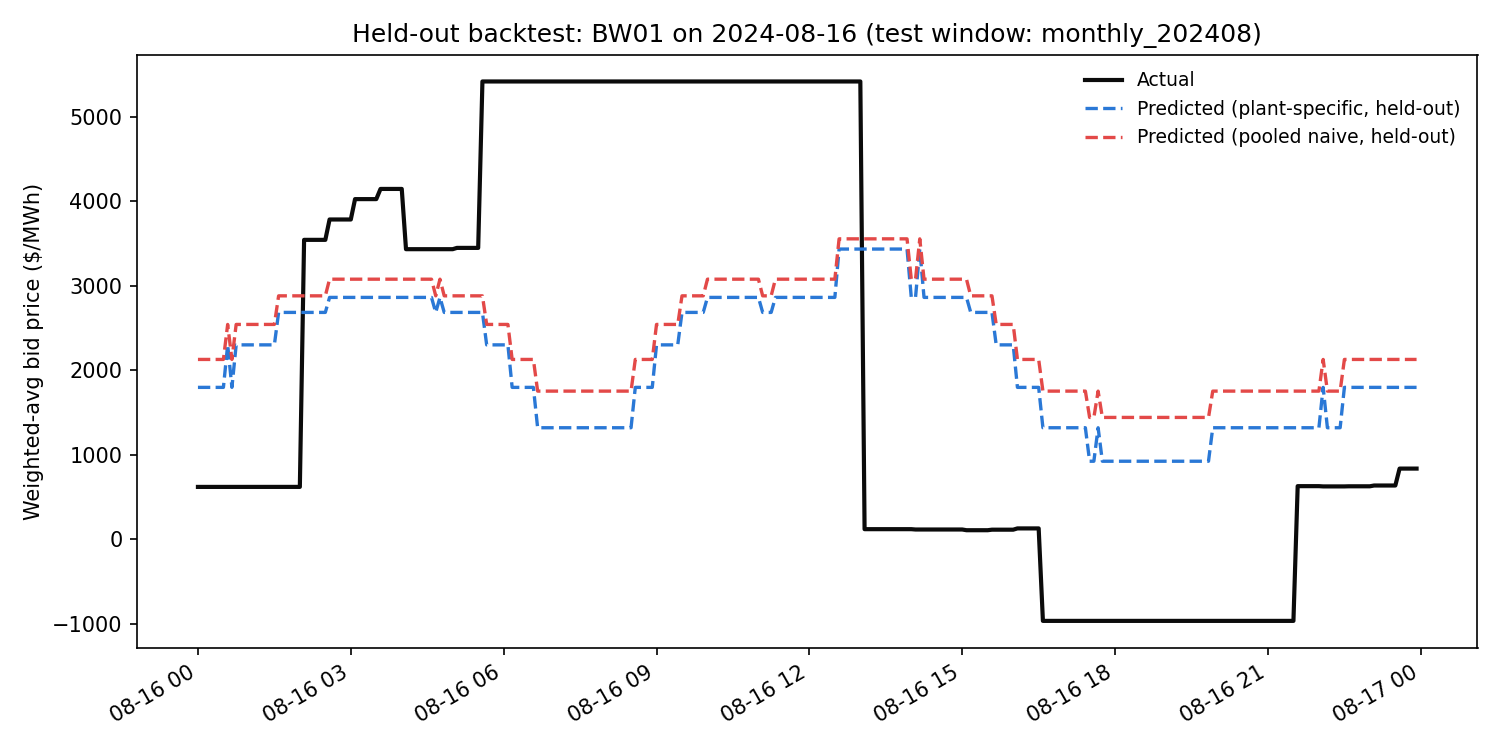
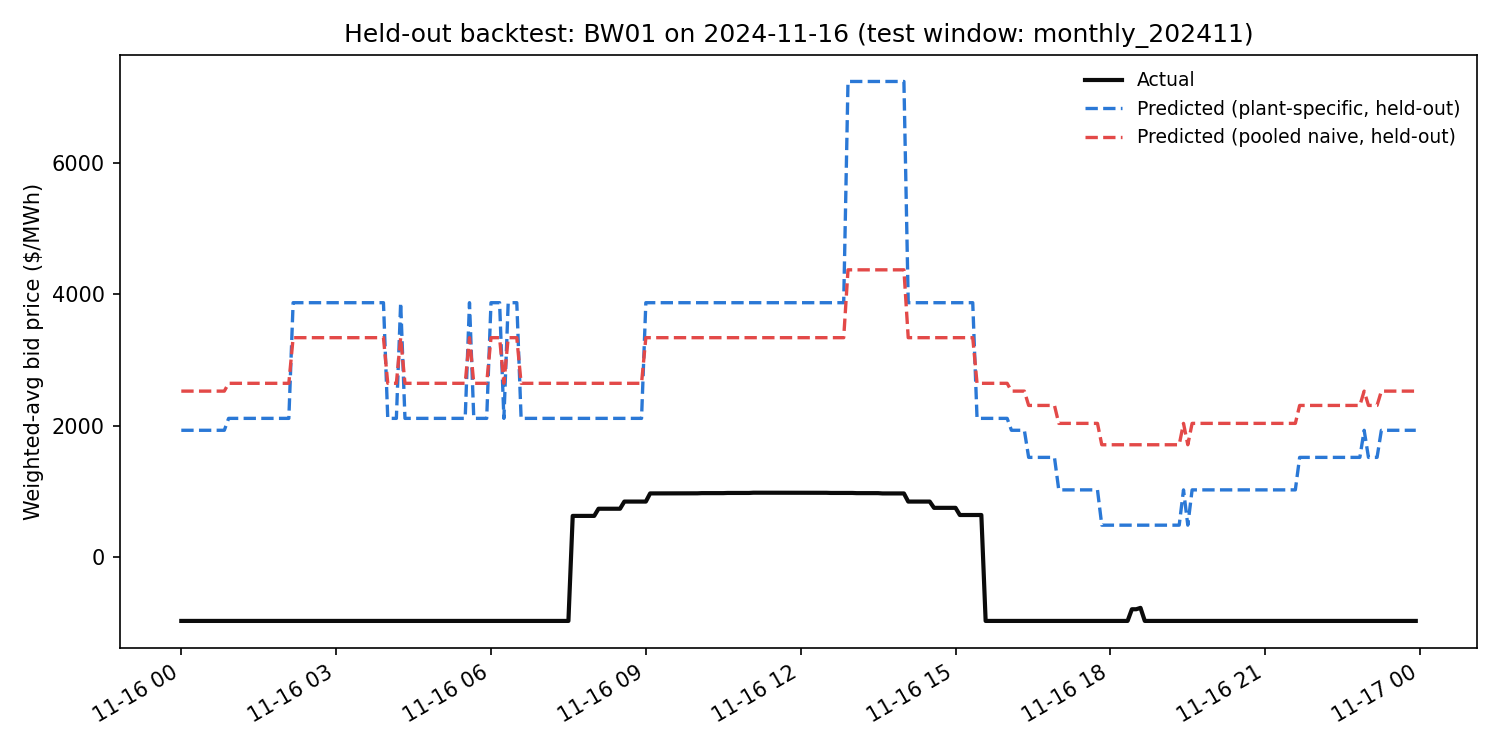
change backtesting

diff --git a/backtest_holdout.py b/backtest_holdout.py
@@ -42,6 +42,7 @@ DUIDS = ["BW01", "BW02", "ER01", "ER02"]
 COLS = ["DUID", "INTERVAL_DATETIME", "TOTALDEMAND", "RESERVE_MARGIN_MW", "WEIGHTED_AVG_PRICE"]
 N_BINS = 8  # ~4000 training rows per unit -> ~500 points per bin, stable without being too coarse
 MIN_ROWS_PER_FOLD = 50  # skip a fold if a DUID has fewer rows than this in train or test
+MIN_TRAIN_WINDOWS = 3  # need at least this many earlier months before the first test fold
 
 
 def load_windows():
@@ -128,24 +129,32 @@ def r2_vs_baseline(actual, pred, baseline_pred):
 
 
 def run_backtest():
-    """Runs the full leave-one-window-out cross-validation: each window is held
-    out as the test set once, with the rest used for training.
+    """Runs a walk-forward backtest: windows are sorted chronologically, and each
+    test month is only ever predicted from months strictly before it.
+
+    An earlier version trained on "all other windows" regardless of order, which
+    let later months leak into predictions for earlier ones, an information
+    leak a genuine forecasting use case would never have. Bidding strategy is
+    also not stationary (see the Eraring retirement-negotiation timeline), so
+    predicting the past from the future would flatter the result.
 
     Each fold compares three predictors: plant-specific, pooled naive, and a
-    constant baseline (the training-period average), scored on how well they
-    predict the held-out window.
+    constant baseline (the average of everything trained on so far), scored on
+    how well they predict the held-out month.
 
     Returns:
         results: one row per (test window, DUID) fold, as a DataFrame.
         example_fold: BW01's data from one fold, kept for plotting predicted vs. actual.
     """
     data = load_windows()
-    all_labels = list(data.keys())
+    all_labels = sorted(data.keys())  # "monthly_YYYYMM" sorts chronologically as strings
     rows = []
     example_fold = None  # keep one fold's detail for the example chart
+    last_actual_corr = {}  # per-DUID, the previous month's actual correlation, for the persistence baseline
 
-    for test_label in all_labels:
-        train_labels = [l for l in all_labels if l != test_label]
+    for i in range(MIN_TRAIN_WINDOWS, len(all_labels)):
+        test_label = all_labels[i]
+        train_labels = all_labels[:i]  # only months strictly before the test month
         train_df = pd.concat([data[l] for l in train_labels], ignore_index=True)
         test_df = data[test_label]
 
@@ -181,8 +190,20 @@ def run_backtest():
             train_corr = np.corrcoef(train_sub["TOTALDEMAND"], train_sub["WEIGHTED_AVG_PRICE"])[0, 1]
             train_pool_corr = np.corrcoef(train_df["TOTALDEMAND"], train_df["WEIGHTED_AVG_PRICE"])[0, 1]
             test_corr = np.corrcoef(demand, actual)[0, 1]
-            plant_specific_sign_match = np.sign(train_corr) == np.sign(test_corr)
-            pooled_sign_match = np.sign(train_pool_corr) == np.sign(test_corr)
+            # bool(...) matters: np.sign(...) == np.sign(...) is a numpy.bool_,
+            # and storing numpy.bool_ in an object-dtype column makes
+            # pandas.Series.mean() silently wrong (verified: with pandas 2.3.3 /
+            # numpy 2.2.6, any True in such a column makes .mean() return 1/n
+            # regardless of the real proportion). Plain Python bool avoids it.
+            plant_specific_sign_match = bool(np.sign(train_corr) == np.sign(test_corr))
+            pooled_sign_match = bool(np.sign(train_pool_corr) == np.sign(test_corr))
+
+            # Persistence baseline: predict this month's sign is whatever last
+            # month's actual sign was, no model at all. Context for how much the
+            # model's direction match rate is actually buying you.
+            prev_corr = last_actual_corr.get(duid)
+            persistence_sign_match = bool(np.sign(prev_corr) == np.sign(test_corr)) if prev_corr is not None else np.nan
+            last_actual_corr[duid] = test_corr
 
             rows.append({
                 "test_window": test_label,
@@ -192,6 +213,7 @@ def run_backtest():
                 "test_actual_demand_price_corr": test_corr,
                 "plant_specific_sign_matches_test": plant_specific_sign_match,
                 "pooled_sign_matches_test": pooled_sign_match,
+                "persistence_sign_matches_test": persistence_sign_match,
                 "mae_constant": mae(actual, pred_const),
                 "mae_pooled_naive": mae(actual, pred_b),
                 "mae_plant_specific": mae(actual, pred_a),
@@ -245,8 +267,12 @@ def summarize(results):
     ]].mean().round(2)
     print(overall.to_string())
     print(f"\nDirection match (training-set demand-price correlation sign vs. test-window actual sign):")
-    print(f"  plant-specific model: {results['plant_specific_sign_matches_test'].mean()*100:.0f}% of folds")
-    print(f"  pooled naive model:   {results['pooled_sign_matches_test'].mean()*100:.0f}% of folds")
+    print(f"  plant-specific model:  {results['plant_specific_sign_matches_test'].mean()*100:.0f}% of folds")
+    print(f"  pooled naive model:    {results['pooled_sign_matches_test'].mean()*100:.0f}% of folds")
+    persistence = results["persistence_sign_matches_test"].dropna()
+    print(f"  persistence baseline:  {persistence.mean()*100:.0f}% of folds (predict this month = last month's actual sign, no model at all, n={len(persistence)})")
+    always_negative = (results["test_actual_demand_price_corr"] < 0).mean()
+    print(f"  'always guess negative' baseline: {always_negative*100:.0f}% of folds (context: how skewed the sign distribution already is)")
 
     return agg
 

diff --git a/README.md b/README.md
@@ -43,13 +43,13 @@ The naive hypothesis, price rises as margin tightens, failed in all three:
 ![Exhibit 3: correlation by plant](exhibit3_correlation_by_plant.png)
 
 - **Bayswater prices against demand, consistently.** Correlation between demand and its weighted-average bid price runs -0.5 to -0.8 in every window, calm or stressed.
-- **Eraring's pattern is weaker and unstable.** Near zero in the calm week, only turning meaningfully negative under stress. Same fuel, same region, different bidding logic, plausibly tied to its retirement timeline.
+- **Eraring's pattern is weaker and unstable.** Near zero in the calm week, only turning meaningfully negative under stress. Same fuel, same region, different bidding logic. Eraring's retirement date has moved twice during the analysis period; see the note in Phase 2 for a partially tested link.
 
 One day makes the mechanism concrete. On November 26, 2025:
 
 ![Exhibit 2: duck curve day](exhibit2_duckcurve_day.png)
 
-BW01 bid up to a blended ~$9,400/MWh at 9-11am, when demand was only 7,000-9,400 MW. It bid down to the price floor during the day's actual peak of 10,760 MW at 5-8pm. The unit prices low when it wants to guarantee dispatch, and prices its optional capacity high when running isn't necessary. That's self-preservation bidding, not a scarcity markup, and a replacement model needs to capture it per plant, not per fuel type.
+BW01's volume-weighted bid price (the average across all 10 price bands, weighted by offered volume, not the marginal band or the dispatch price) reached ~$9,400/MWh at 9-11am, when demand was only 7,000-9,400 MW: half its 660 MW capacity sat at the price cap, half near the floor. At the day's actual peak of 10,760 MW at 5-8pm, all 660 MW sat at the price floor. The unit prices low when it wants to guarantee dispatch, and prices its optional capacity high when running isn't necessary. That's self-preservation bidding, not a scarcity markup, and a replacement model needs to capture it per plant, not per fuel type. (Across the full month this specific two-band split is the extreme case, not the typical one; see the Appendix for the exact statistic used.)
 
 **Concretely:**
 1. Replace the single "scarcity alpha" parameter with plant-specific curves indexed to demand, estimated from each unit's bid history.
@@ -70,15 +70,15 @@ A demand-indexed, plant-specific model should improve forecast accuracy exactly 
 
 The plan was to validate against a real AEMO Market Price Cap or Cumulative Price Threshold event. NSW1 has triggered Administered Pricing only once, May 8 to 15, 2024, and that window sits inside the exact gap where AEMO's bid archive has no data. No bid data exists to test against it.
 
-Instead I ran a leave-one-month-out backtest on 23 independent real months (Aug 2024 to Jun 2026). Each month is held out in turn while the rest train the model. Two models, both fit on demand-binned average bid price, are compared: one curve per unit versus one curve pooled across all four units.
+Instead I ran a walk-forward backtest on real months from Aug 2024 to Jun 2026. Windows are sorted chronologically and each test month is predicted only from months strictly before it, never from the future. Two models, both fit on demand-binned average bid price, are compared: one curve per unit versus one curve pooled across all four units. An earlier version of this backtest trained on all other months regardless of order, letting later months leak into earlier predictions; that is fixed now.
 
-Results across 92 held-out unit-months:
-- Direction (price rising or falling with demand) matched the held-out month 93% of the time.
-- The pooled curve did worse than just predicting the training-period average price (R² -0.12).
-- The plant-specific curve beat that baseline (R² 0.12) and cut prediction error 11% versus the pooled curve.
-- The gain was small for Bayswater (about 4%) and large for Eraring (15-25%). Pooling lets Bayswater's bigger swings distort Eraring's curve.
+Results across 80 held-out unit-months:
+- The plant-specific curve cut prediction error 12% versus the pooled curve, and beat a constant-average baseline (R² 0.14 vs. 0.01 for pooled). The gain was small for Bayswater (4-7%) and large for Eraring (about 24%). Pooling lets Bayswater's bigger swings distort Eraring's curve. This is the real result of this backtest.
+- Direction (price rising or falling with demand) matched the held-out month 92% of the time, which sounds strong until it's compared against doing nothing. A rule that always predicts "price falls as demand rises", no model, no training, just always guessing the same direction, matches 95% of months, because that's how skewed the real distribution already is. Neither model beats that trivial baseline on direction. Report the MAE result above, not a direction-match percentage, as evidence.
 
-This supports keeping Bayswater and Eraring separate. It does not mean demand alone predicts price well: it explains only about 12% of the variance. Reproduce with `fetch_monthly_bids.py` then `backtest_holdout.py`.
+This supports keeping Bayswater and Eraring separate for predicting price *level*, not direction. Demand alone explains only 12-14% of the variance. Some of that is likely omitted variables I haven't controlled for: reserve margin and demand here are actual outturn values, not the forecasts a unit would have seen when it submitted a day-ahead bid, and neither interconnector flow (QNI/VNI) nor unit-level outage status is in the model yet. Reproduce with `fetch_monthly_bids.py` then `backtest_holdout.py`.
+
+**Open question, not yet confirmed:** Eraring's retirement date moved twice during this window: extended from 2025 to August 2027 in May 2024 (before this data starts), then to April 2029 in January 2026 (inside this window). Eraring's demand-price correlation does weaken after the January 2026 announcement, but at 6 months of post-announcement data the shift isn't statistically significant (p > 0.09), and Bayswater, unrelated to Eraring's retirement, shifted too over the same period. Worth rechecking once more months accumulate; not something I can claim yet.
 
 ---
 
@@ -100,6 +100,10 @@ All figures come from real AEMO data pulled via [NEMOSIS](https://github.com/UNS
 
 **Per-interval reconstruction:** `BIDPEROFFER_D` restates every remaining interval each time a unit rebids intraday, so a naive join keeps superseded rows. I keep only the most recent rebid actually in effect (`OFFERDATE <= INTERVAL_DATETIME`, latest wins) before computing each unit's weighted-average bid price per interval.
 
+**Bid price statistic:** `WEIGHTED_AVG_PRICE` is each unit's 10 price bands averaged and weighted by the volume offered in each band, for that interval. It is not the marginal (highest dispatched) band, and not the actual dispatch price (RRP). A unit can, and does, park most of its capacity at the price floor while holding a smaller slice at the cap; the weighted average reflects that mix, not a single "price" the unit is charging.
+
+**Known limitations:** reserve margin and demand used here are actual outturn values (`DISPATCHREGIONSUM`), not the pre-dispatch forecasts a unit would have had at bid submission time. Interconnector flow (QNI/VNI) and unit-level planned/unplanned outages are not in the model. The backtest's low R² (12-14%, see Phase 2) is consistent with these being real omitted variables, not just noise.
+
 ## Repository Structure
 
 ```
@@ -110,7 +114,7 @@ find_real_spike_days.py       # Scan 2024-08 onward for genuine NSW1 price-spike
 scarcity_curve.py             # Core analysis: real bid price vs. real reserve margin / demand
 make_exhibits.py              # Generates exhibit1/2/3 PNGs used in this README
 fetch_monthly_bids.py         # Phase 2: pull every available real month for the backtest
-backtest_holdout.py           # Phase 2: leave-one-month-out backtest, plant-specific vs. pooled curve
+backtest_holdout.py           # Phase 2: walk-forward backtest, plant-specific vs. pooled curve
 nsw1_2023.csv                 # 2023 NSW1 half-hourly demand & price
 duid_generator_registry.csv   # AEMO generator registration list
 nemosis_cache/                # Cached NEMOSIS downloads + parquet outputs, gitignored, several GB
